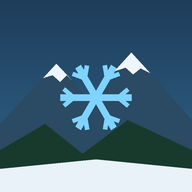
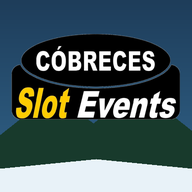
Deploy v6

diff --git a/index.html b/index.html
@@ -18,7 +18,7 @@
     <path d="M0 90l40-28 30 18 45-34 50 40 40-22 45 26 60-30 50 20 40-12V90z" fill="#183a2c"/>
     <path d="M0 90q120-30 200-6t200-10V90z" fill="#e8f2f8"/>
   </svg>
-  <h1>Slot Cóbreces <span>Eventos</span></h1><button id="helpBtn" class="ghost" aria-label="Ayuda">?</button></header>
+  <h1><img class="logo" src="assets/logo-cobreces.webp" alt="Cóbreces Slot Events" width="720" height="366"><span class="name">Slot Cóbreces - Eventos</span></h1><button id="helpBtn" class="ghost" aria-label="Ayuda">?</button></header>
 
 <main>
 <section id="setup" class="screen">
@@ -67,6 +67,7 @@
 </section>
 </main>
 
+<footer><img src="assets/logo-wrslot.webp" alt="WRSlot Cantabria" class="wrslot" width="480" height="107"></footer>
 <dialog id="help">
   <h2>Ayuda</h2>
   <p>Eventos simula un rally: durante el rally lanza al azar eventos en los tramos: nevadas (suave, moderada o intensa; la nieve es harina en pista) y pinchazos («Pinchazo lento» o «Reventón»). Cada evento cae en un tramo al azar y solo se anuncia: no tiene duración ni aviso de fin. Con intensidad suave predominan los pinchazos lentos; con intensa, los reventones.</p>

diff --git a/style.css b/style.css
@@ -52,3 +52,10 @@ dialog::backdrop{background:#000c}
 .tramo{background:linear-gradient(#1b3b57,#14402f);border:1px solid var(--line);border-radius:12px;padding:8px 4px;text-align:center;display:flex;flex-direction:column;gap:2px;min-width:0;color:var(--ice)}
 .tramo b{color:var(--snow)}.tramo .ti{font-size:1.8rem}.tramo small{font-size:.72rem;line-height:1.2;color:var(--txt)}
 .tramo time{color:var(--mut);font-size:.7rem}.tramo.new{border-color:var(--warn);box-shadow:0 0 0 2px var(--warn) inset}
+header{align-items:center;min-height:0;padding:14px 16px 34px}
+h1{display:flex;flex-direction:column;align-items:flex-start;gap:4px}
+.logo{display:block;height:auto;width:min(62vw,280px);filter:drop-shadow(0 3px 8px #0008);transition:width .3s}
+body[data-screen=race] .logo{width:min(36vw,150px)}
+h1 .name{font-size:.8rem;letter-spacing:.1em;text-transform:uppercase;color:var(--snow);text-shadow:0 1px 4px #000}
+footer{text-align:center;padding:18px 16px 28px;opacity:.8}
+.wrslot{width:150px;height:auto}

diff --git a/sw.js b/sw.js
@@ -1,5 +1,5 @@
-const CACHE = 'eventos-v5';
-const ASSETS = ['./','index.html','style.css','app.js','manifest.webmanifest','icons/icon-192.png','icons/icon-512.png'];
+const CACHE = 'eventos-v6';
+const ASSETS = ['./','index.html','style.css','app.js','manifest.webmanifest','icons/icon-192.png','icons/icon-512.png','assets/logo-cobreces.webp','assets/logo-wrslot.webp'];
 self.addEventListener('install', e => { e.waitUntil(caches.open(CACHE).then(c => c.addAll(ASSETS))); self.skipWaiting(); });
 self.addEventListener('activate', e => { e.waitUntil(caches.keys().then(ks => Promise.all(ks.filter(k => k !== CACHE).map(k => caches.delete(k)))).then(() => self.clients.claim())); });
 self.addEventListener('fetch', e => {

diff --git a/app.js b/app.js
@@ -119,7 +119,7 @@ function freqHint() {
   $('#freqHint').textContent = f === 'aleatoria' ? `Cada intervalo al azar entre ${RANDOM_RANGE[0]} y ${RANDOM_RANGE[1]} min`
     : `Un evento cada ~${FREQ[f]} min de media (entre ${FREQ[f] / 2} y ${FREQ[f] * 1.5} min)`;
 }
-function show(scr) { $('#setup').classList.toggle('hidden', scr !== 'setup'); $('#race').classList.toggle('hidden', scr !== 'race'); }
+function show(scr) { document.body.dataset.screen = scr; $('#setup').classList.toggle('hidden', scr !== 'setup'); $('#race').classList.toggle('hidden', scr !== 'race'); }
 function render() {
   if (!S) return show('setup');
   show('race');
